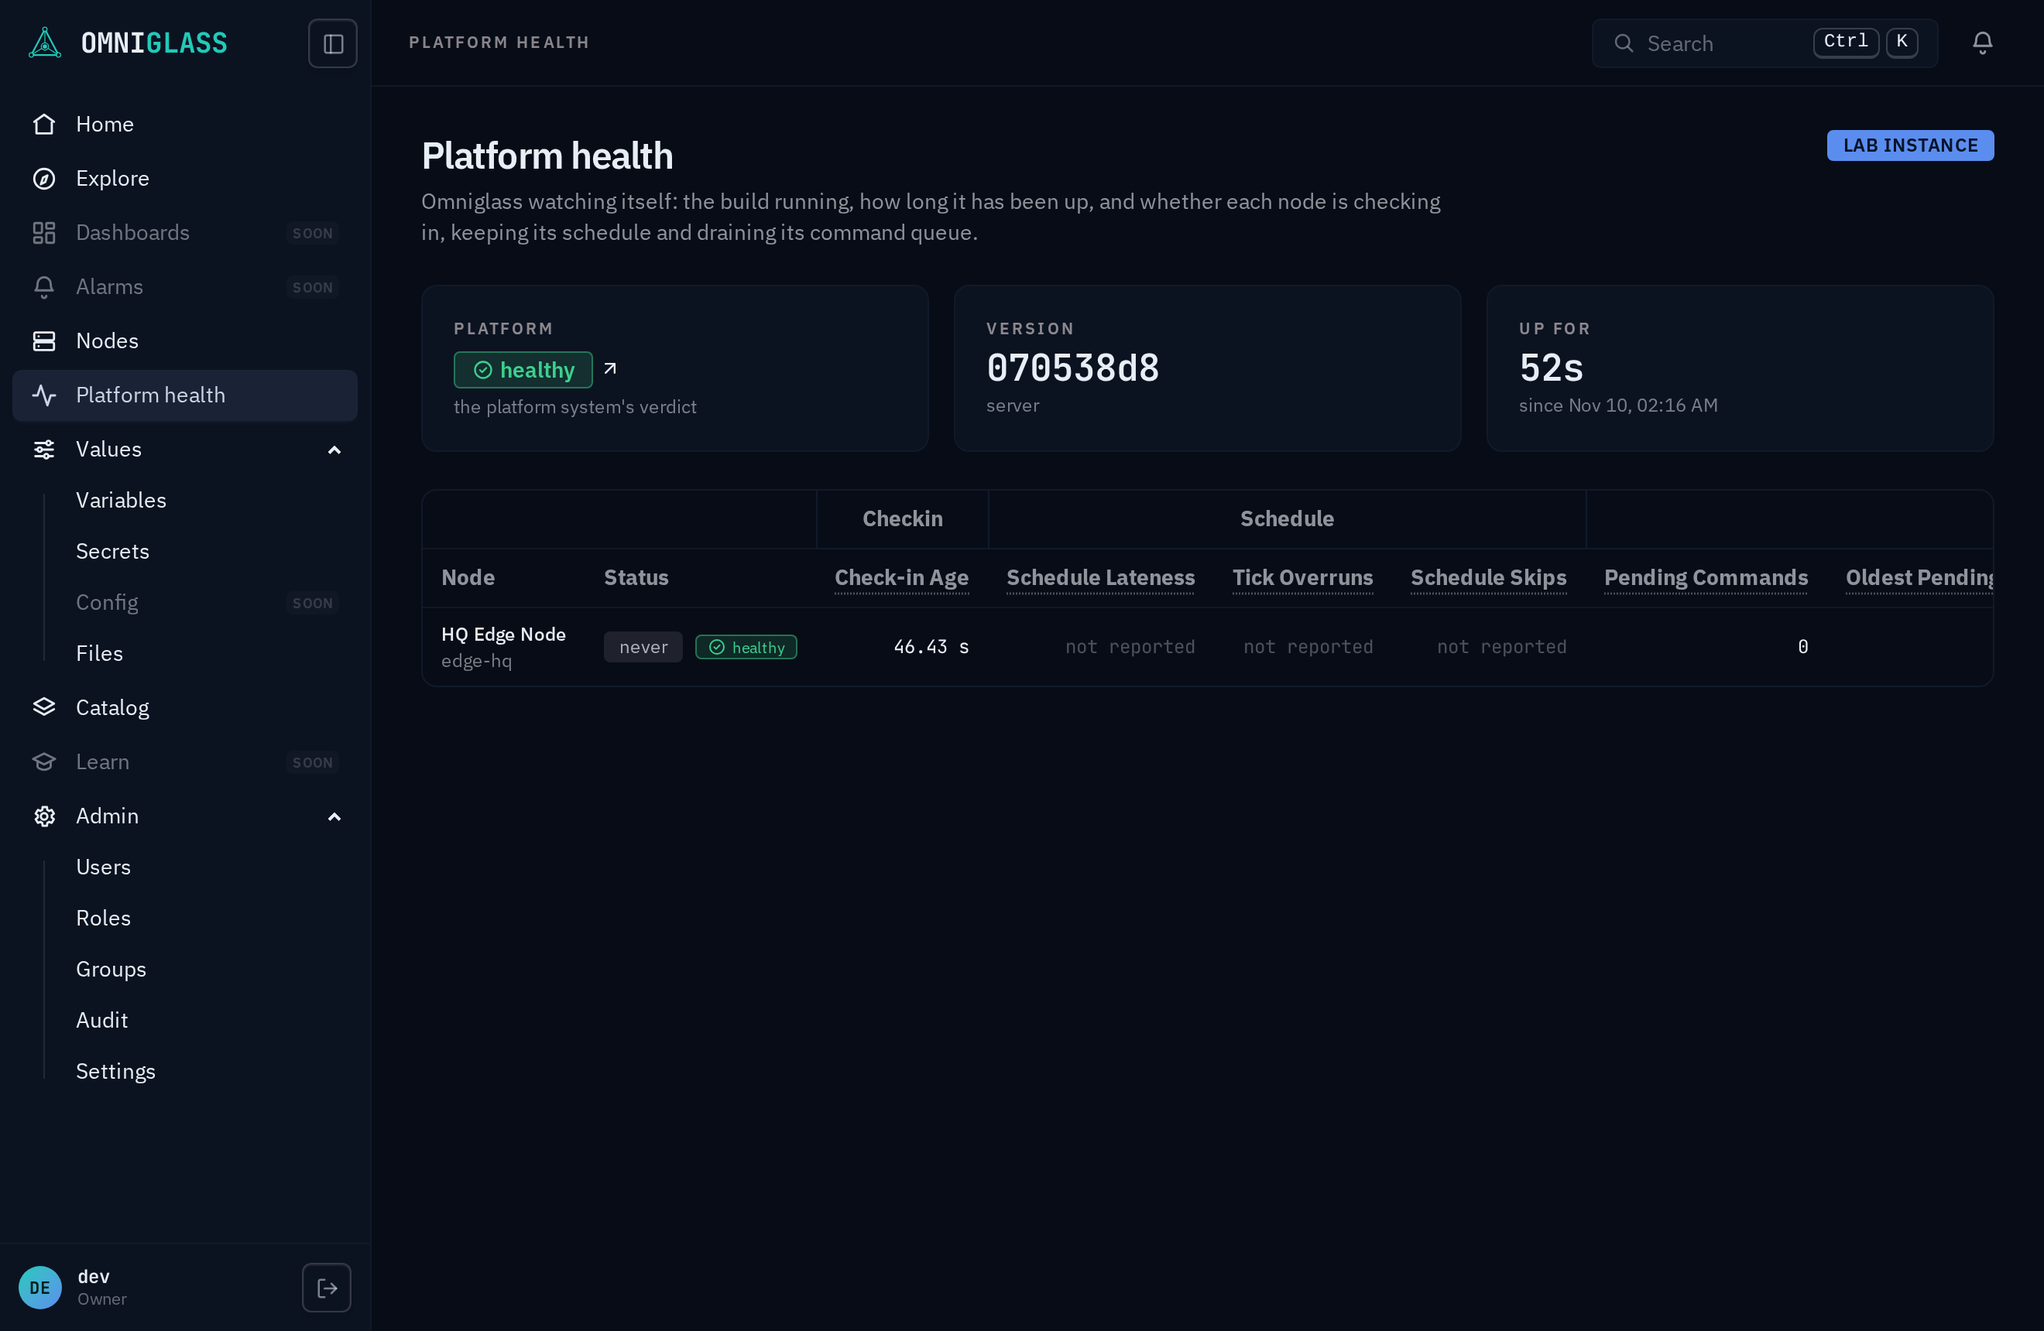
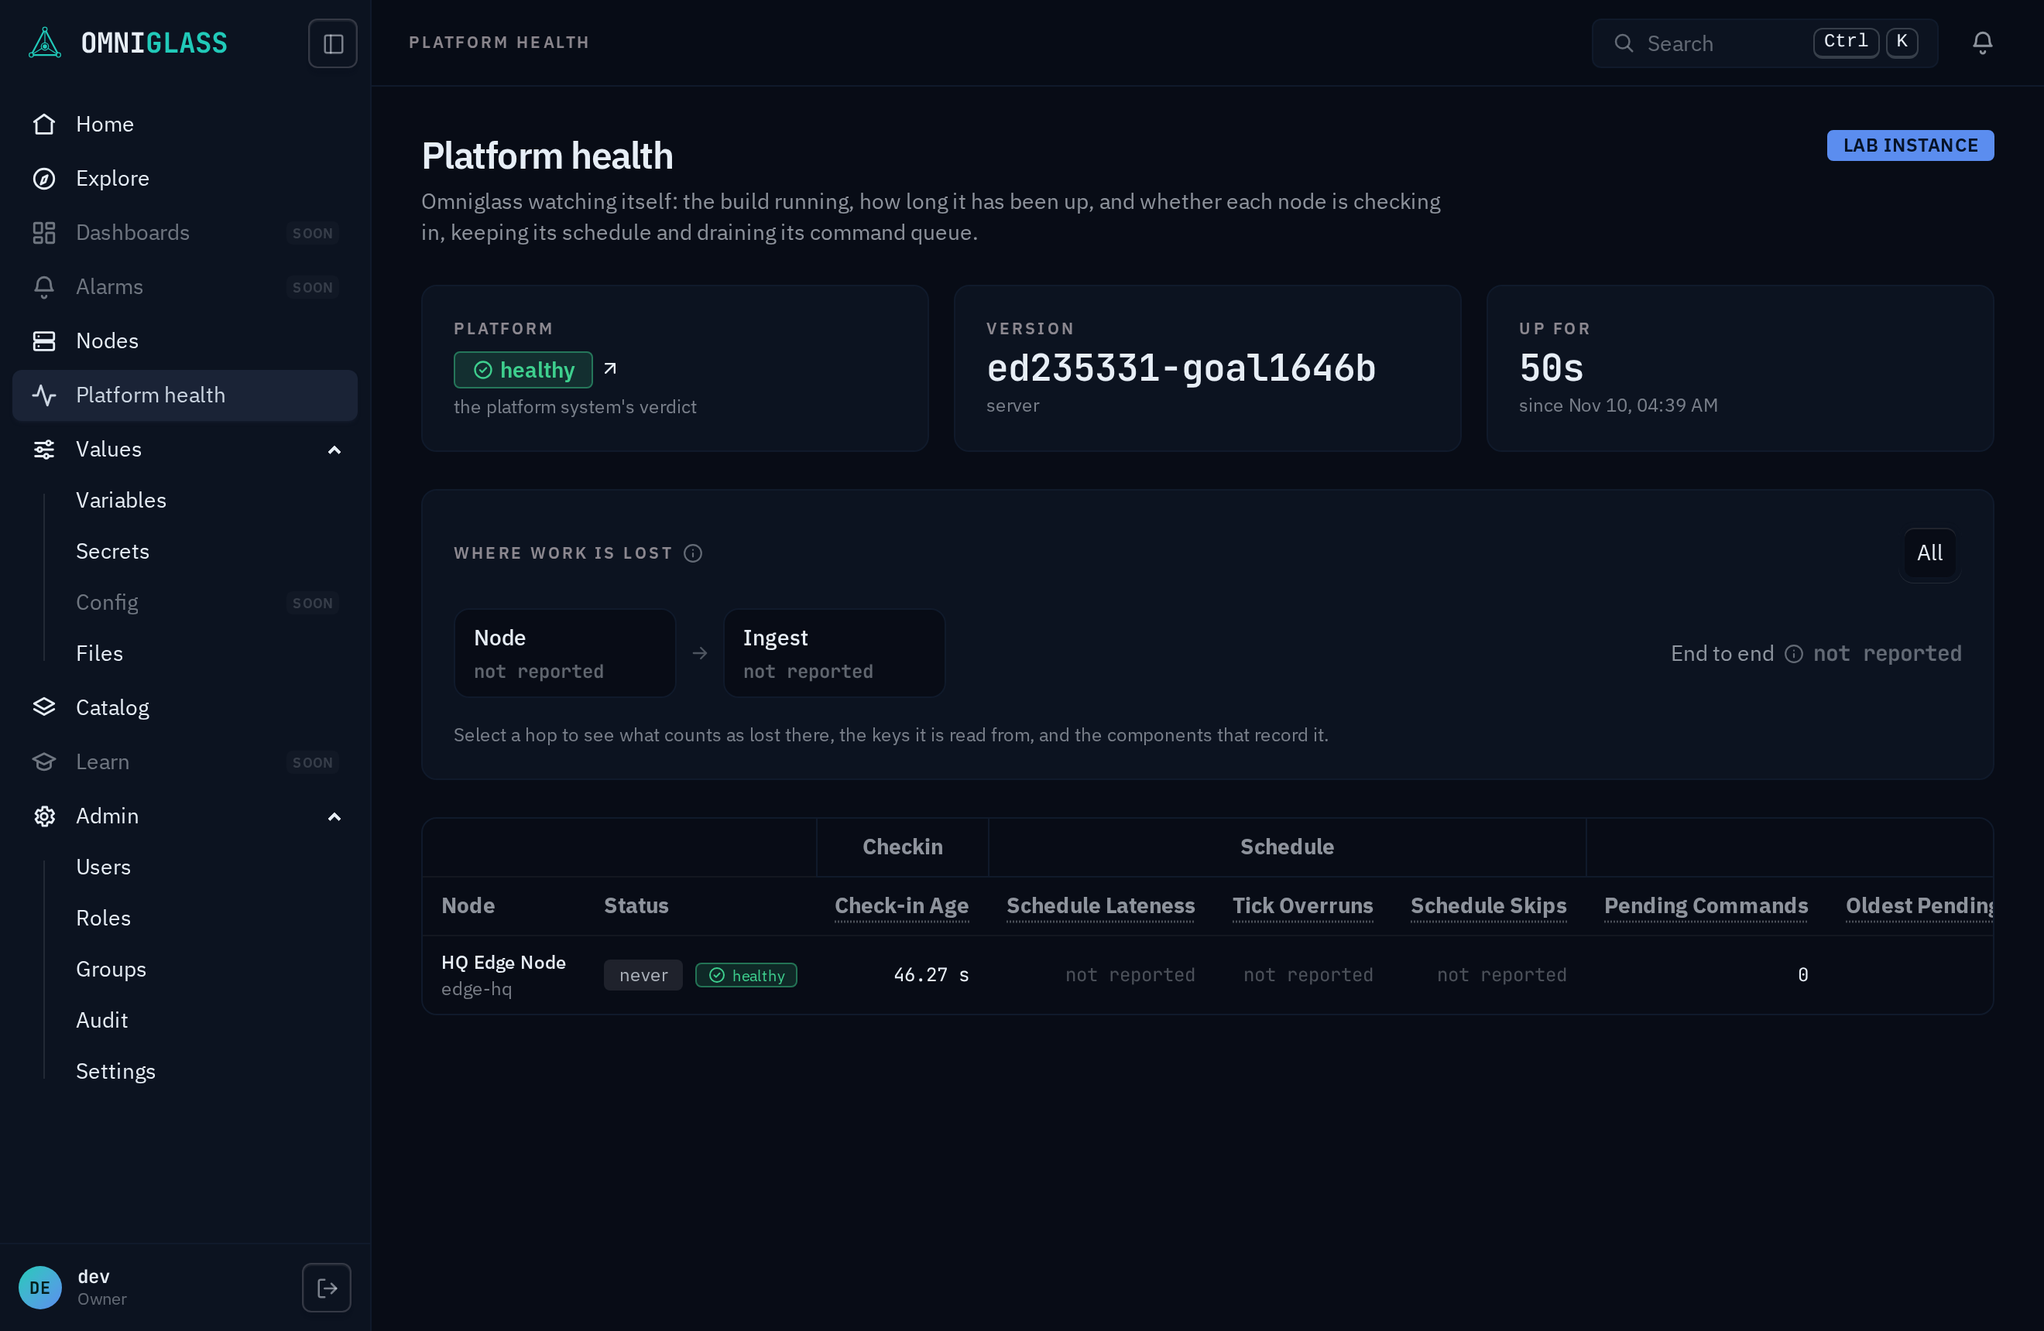
Document where work is lost on Platform health
The operator guide teaches the hops, the one loss rule over summed
counts, the end to end as composed survival, absent versus nothing in,
and the Node Loss column, with a shot of a hop's explainer and the
walkthrough. The architecture pages link the delivery keys to the
page, ADR-1646 records the divergences (a declared hop table, Loss as a
composed field, the schedule hop and the node's causes not drawn yet,
the walkthrough lab's 10s window), and the build log has its entry.

Fixes #1646

diff --git a/docs/src/content/docs/guides/operator/platform-health.md b/docs/src/content/docs/guides/operator/platform-health.md
@@ -14,8 +14,32 @@ screenshots:
       - "[data-testid=platform-version] >> xpath=ancestor::div[3]"
       - "[data-testid=platform-uptime] >> xpath=ancestor::div[3]"
       - "[data-figure=checkin-age]"
+      # Where work is lost reads the server's own delivery windows, which land
+      # once a report window (60s here) passes, so whether its kinds and figures
+      # show yet moves with when the capture reaches the page. Its tab row and
+      # its hop row are full width and one line tall whatever they hold.
+      - "[data-testid=pipeline] [role=group] >> xpath=.."
+      - "[data-testid=pipeline] ol >> xpath=.."
+  # The ingest hop's explainer: what it does, what counts as lost there and
+  # the keys it is read from are the hop's own text; its components column
+  # holds the server's figures once a window lands, so it is masked with the
+  # rows above.
+  - id: platform-health-hop
+    path: /web/platform
+    steps:
+      - action: click
+        selector: "[data-testid=pipeline-hop-ingest]"
+    alt: "Where work is lost on Platform health with the Ingest hop open: what the server's ingest takes in and hands on, what counts as lost there, the three delivery keys it is read from with their descriptions, and its components with their share."
+    mask:
+      - "[data-testid=platform-version] >> xpath=ancestor::div[3]"
+      - "[data-testid=platform-uptime] >> xpath=ancestor::div[3]"
+      - "[data-figure=checkin-age]"
+      - "[data-testid=pipeline] [role=group] >> xpath=.."
+      - "[data-testid=pipeline] ol >> xpath=.."
+      - "[data-testid=pipeline-hop-detail] > div:nth-child(2)"
 walkthroughs:
   - id: read-platform-health
+  - id: find-where-work-is-lost
 ---
 
 Omniglass monitors a fleet, and it is a fleet of its own: a server, a database and the nodes that
@@ -40,6 +64,50 @@ to open it; the tile and the sidebar entry are hidden without it.
   its boot wrote. A restart moves the start time forward.
 - On a lab instance the page says so beside its title.
 
+## Where work is lost
+
+Under the header, **Where work is lost** draws the path a collected item takes from the run that
+produced it to the store, one hop at a time, in the order an item crosses them:
+
+- **Node**: the node's spool, from a run's output to the stream. An item is out when the stream
+  acks its batch, and lost when the spool drops it at a cap, the bus refuses it, or it never
+  encodes.
+- **Ingest**: the server's ingest, from the stream to the store. An item is out when it is stored,
+  coalesced or had already landed (a replay is not a loss), and lost when it is refused, orphaned,
+  or its batch is terminated whole.
+
+Every hop is read from the same three keys, written by the component that runs the hop:
+`delivery-in-count`, `delivery-out-count` and `delivery-loss-ratio`, one series per item kind
+(metric, property, event, log) as the instance
+([how each hop counts](/architecture/messaging/#measuring-the-pipeline)). So one rule reads every
+hop: its **loss** is the share of what it took in that it did not hand on, `(in - out) / in`, over
+the last hour's summed counts across every component on the hop. It is never an average of the
+components' ratios: a node that lost 1 of 2 and one that lost none of 98 are a hop that lost 1 of
+100, 1%. **0% is healthy**, and a hop above 0 is tinted so it stands out.
+
+- **End to end** is the share lost anywhere on the path: one minus the product of each hop's
+  survival, `1 - (1 - a)(1 - b)`, so two hops losing 1% each lose 1.99% end to end, not 2%.
+- **All, Metric, Property, Event, Log** read the figures for every kind summed or one kind alone.
+  A kind shows only once a hop has carried it.
+- A hop that has written nothing yet reads **not reported**, never 0: a 0 would claim it measured
+  no loss. A hop with series but nothing in over the hour shows its zero counts and **nothing in**,
+  no ratio.
+
+Select a hop for its explainer: what it does, what counts as out and as lost there, the keys it is
+read from with their descriptions from the [metrics catalog](/guides/admin/metrics/), the class of
+platform component that records it, and each component's own share. Each component links to its
+platform component, where its delivery series live with their history.
+
+::screenshot{#platform-health-hop}
+
+A failed poll is not lost work. A device that does not answer is a fact the node collects and hands
+on (it lands on that device's component, as its poll failures), so the node hop still reads 0 while
+a broken device fails every poll. A hop's loss is work the platform itself dropped.
+
+Two hops are not drawn yet: the schedule (whether each run the worklist asks for is run, #1693)
+and the node's causes of loss by kind of failure (#1692). They appear when their figures are
+written; until then the path starts at the node's spool.
+
 ## The node table
 
 One row per node. **Status** is the same liveness pill the [Nodes](/guides/operator/collection/)
@@ -53,10 +121,10 @@ The columns are the platform keys, grouped:
 - **Schedule**: how late its collection ticks run, and how many overran or were skipped.
 - **Commands**: how many commands wait for it, the oldest one's age, and how many are stuck or
   expired.
-
-The node's delivery (the items of each kind its spool took in, handed on and lost, as a loss ratio
-where 0 is healthy) lands on its platform component every window (#1659); its column group on this
-page is #1646's.
+- **Loss**: **Node Loss** is the node's own share of [where work is lost](#where-work-is-lost): the
+  end to end over the last hour of the hops its own component records (the node hop today), every
+  kind summed. 0% is healthy; a node whose hops took nothing in reads **not reported**. Its series
+  are on the node's platform component, one per kind.
 
 Hover a column's header, or tab to it, for what the key measures; the text is the key's description from the
 [metrics catalog](/guides/admin/metrics/), not prose written into the page. A figure the node has
@@ -82,17 +150,26 @@ Home tile reads the same.
 The platform components belong to no place, so only a fleet-wide (all-scope) read reaches them.
 If your component read is scoped to part of the fleet, the page still lists every node with its
 pill, and one line says the platform figures need a fleet-wide read: the figures are left out, not
-shown as zero. Without a fleet-wide system read the Platform verdict reads `-`.
+shown as zero. Where work is lost is left out with them, and the Loss column reads not reported.
+Without a fleet-wide system read the Platform verdict reads `-`.
 
 ## From the CLI
 
 The page is one read of the platform view, so `omniglass view platform list` returns the same
 answer: the system verdict, each server's build and start time, the key groups, and each node's
-verdict with its current figures. A key a node has not reported is absent from its `figures`,
-never zero, so the command reads not-reported the same way the page does.
+verdict with its current figures, its `loss`, and the `pipeline` with each hop's figures per kind
+and per component. A key a node has not reported is absent from its `figures`, and a hop or a node
+with nothing to compose has no `loss`, never zero, so the command reads not-reported the same way
+the page does.
 
 ## Walkthrough
 
 From Home, open the tile, read the header, and open a node's row onto its platform component.
 
 ::walkthrough{#read-platform-health}
+
+Read where work is lost at 0, open a hop's explainer, break a simulated panel so every poll of it
+fails, watch the failures land on the panel while the node hop stays at 0, and follow the node's
+row in the node hop to its delivery series.
+
+::walkthrough{#find-where-work-is-lost}

diff --git a/docs/src/content/decisions/adr-1646-where-work-is-lost-is-a-composed-read-of-the-delivery-keys-hop-by-hop.md b/docs/src/content/decisions/adr-1646-where-work-is-lost-is-a-composed-read-of-the-delivery-keys-hop-by-hop.md
@@ -1,0 +1,40 @@
+---
+title: "Where work is lost is a composed read of the delivery keys, hop by hop"
+date: 2026-11-10
+status: "Accepted"
+summary: "Accepted: Platform health draws the pipeline as the hops a declared table in storage names (node, then ingest), each read from the three delivery keys on the platform components of its class, its loss (in - out) / in over the summed counts and the end to end 1 - prod(1 - loss). A node's Loss is a composed view field over the hops its own component records, not a key group. The schedule hop (#1693) and the node's causes (#1692) are not drawn until their figures are written. The walkthrough lab's seed sets the report window to 10s."
+refs: [1646, 1659, 1641, 1644, 1623, 1692, 1693]
+---
+
+- **Date:** 2026-11-10 | **Status:** Accepted | **Pages:** [Platform health](/guides/operator/platform-health/#where-work-is-lost), [messaging](/architecture/messaging/#measuring-the-pipeline), [api](/architecture/api/)
+- **Decision:** (#1646, under #1623.)
+  1. **The hops are a declared table, read from one key set.** `storage.PlatformPipelineHops`
+     names each hop in pipeline order with its label, what counts as out and lost there, the class of
+     platform component that records it (node or server) and the instance form that selects its
+     series. The read selects `delivery-in-count`, `delivery-out-count` and `delivery-loss-ratio`
+     on every platform component in one statement, and a hop's rows are its class's series at its
+     instance form. A new hop is a table row and the keys its component writes, not a new read.
+  2. **One loss rule, composed from counts.** A hop's loss is `(in - out) / in` over its
+     components' summed counts (the newest window and the last hour), never an average or sum of
+     their ratios; the end to end per kind is `1 - prod(1 - loss)` over the hops that kind crossed
+     (`delivery.EndToEnd`). Nothing in is no ratio, and a kind with no series at a hop is no row:
+     neither reads 0.
+  3. **A node's Loss is a composed field, not a key group.** The issue placed the node's delivery
+     as a column group of keys. The page shows one figure per node instead, the end to end over the
+     last hour of the hops its own component records, every kind summed, and the view says which
+     hops in `loss_hops`, so the page names them without assuming. The per-kind series stay on the
+     node's platform component, one click away.
+  4. **The node hop is #1659's spool figures.** It is drawn from the keys #1659 writes at the
+     spool, before the node's causes of loss by failure (#1692) exist, so it reads in, out and lost,
+     not why.
+  5. **Hops with no figures are not drawn.** The schedule hop (whether each run the worklist asks
+     for is run, #1693) writes no delivery keys yet, so the path starts at the node's spool; it is
+     not drawn as a hop reading 0, which would claim a measurement that was not made.
+  6. **The walkthrough lab reports every 10 s.** A lab started for a recording (`walkthrough`
+     cadence) with its node seeds `collection.report_seconds` to 10, the setting's floor, through the
+     new hidden `lab seed --report-seconds`, so the first delivery and poll figures land well inside
+     a minute's recording. A learner's lab and a lab with no node (the docs shots) keep the
+     platform's 60 s.
+- **Consequences:** the [lab topology](/guides/lab/) table gains the report window column. The
+  server ingest hop reads a small nonzero loss on a fresh lab while the node hop reads 0 (#1641),
+  which this page now makes visible rather than fixes.

diff --git a/docs/src/content/build-log/2026-11-10-platform-health-shows-where-work-is-lost.md b/docs/src/content/build-log/2026-11-10-platform-health-shows-where-work-is-lost.md
@@ -1,0 +1,19 @@
+---
+title: "Platform health shows where work is lost, hop by hop (#1646)"
+date: 2026-11-10
+refs: [1646, 1659, 1641, 1644, 1692, 1693]
+---
+
+Platform health draws the path a collected item takes from its run to the store as hops, the node's
+spool then the server's ingest, each read from the three delivery keys #1659 writes on the platform
+components that run it. `storage.PlatformPipelineHops` declares the hops and one read composes them:
+each hop's in, out and loss per kind over the newest window and the last hour, each component's
+share, and the end to end, with nothing in reading no ratio rather than 0. The platform view serves
+it as `pipeline`, with each node's composed `loss` and the hops it covers in `loss_hops`. The console
+draws it as `PipelineFlow`: the hops with a kind filter, a tint above 0, and an explainer per hop
+naming its keys and linking each component to its series; the node table gains a Node Loss column.
+The walkthrough `find-where-work-is-lost` breaks a simulated panel and shows its failed polls landing
+on the panel while the node hop stays at 0. The walkthrough lab now seeds a 10 s report window so its
+figures land inside the recording. The schedule hop (#1693) and the node's causes (#1692) are not
+drawn yet. The decisions are
+[ADR-1646](/architecture/decisions/#adr-1646-where-work-is-lost-is-a-composed-read-of-the-delivery-keys-hop-by-hop).

diff --git a/docs/src/content/docs/architecture/nodes.md b/docs/src/content/docs/architecture/nodes.md
@@ -600,7 +600,9 @@ stream acked) and `delivery-loss-ratio`, `(in - out) / in`, 0 when nothing came 
 when the stream acks its batch (in and out), or when the spool drops it at a cap, the bus refuses it,
 or it never encodes (in only); a batch held for a retry has not settled and counts in the window it
 does. These three replace the old spool-drop and publish-failure counts, so every hop's loss reads
-as the same ratio ([messaging](/architecture/messaging/#accounting-every-item-the-loss-ratio)). The schedule figures read
+as the same ratio ([messaging](/architecture/messaging/#accounting-every-item-the-loss-ratio)), and
+[Platform health](/guides/operator/platform-health/#where-work-is-lost) draws this hop beside the
+server's ingest, with each node's own share as its Loss (#1646). The schedule figures read
 the dispatcher's window ([below](#scheduling-concurrency-and-self-observability)): a poll keeping its
 interval reads a zero `schedule-gap-excess`, and a late pass or a skipped slot reads the distance it
 lost. A node that goes silent sends nothing, so the server writes the one figure that keeps

diff --git a/docs/src/content/docs/architecture/ui.md b/docs/src/content/docs/architecture/ui.md
@@ -25,7 +25,9 @@ place from `allowed_parent_types`, never from a type's name (ADR-0137). **Platfo
 projection (`GET /views/platform`) with the running build, its uptime, the platform system's
 verdict and a row per node of its platform figures, each row opening onto the node's platform
 component. Its columns are the groups the view returns, headed with each key's catalog
-description, so the page holds no key list. The views model, the renderer library, and composable
+description, so the page holds no key list. Above the table it draws **where work is lost**
+(#1646): the hops the view returns, each read from the same three delivery keys with one loss rule,
+and a hop's explainer naming its keys and its components (`components/PipelineFlow.tsx`). The views model, the renderer library, and composable
 dashboards remain the intended **read side** for the analytical surfaces (alarms, sample
 history, the cascade view, fleet dashboards), not built yet.
 Realized shell: the [design system](/contributing/design-system/); operating it: the

diff --git a/docs/src/content/docs/architecture/api.md b/docs/src/content/docs/architecture/api.md
@@ -1171,7 +1171,10 @@ earns its own tier only when composing the entity reads in the browser would be 
   many nodes there are. Its rows are `/nodes`', so a node read short of all-scope is a **403**, as
   `/nodes` answers, never an empty table. The figures, the verdicts and the servers need an
   all-scope `component:read` and the system an all-scope `system:read`; short of either they are
-  omitted, never zeroed, and `figures_read` says which.
+  omitted, never zeroed, and `figures_read` says which. With the figures come `pipeline`, each
+  hop's delivery in, out and loss per kind and per component (newest window and last hour) and the
+  end to end, and each node's `loss`, the end to end of the hops `loss_hops` names (#1646); a hop,
+  kind or node with nothing in has no loss, never 0.
 
 Two properties are worth stating because they are easy to lose:
 

diff --git a/docs/src/content/docs/architecture/messaging.md b/docs/src/content/docs/architecture/messaging.md
@@ -327,6 +327,10 @@ failure count has its attempts beside it, so each loss reads as a ratio where 0 
   silent`, and not again until a heartbeat from that node lands, so a database outage under a fleet
   heartbeating every few seconds is one line a node, not one a beat. Healthy is 0 failures.
 
+[Platform health](/guides/operator/platform-health/#where-work-is-lost) reads the delivery keys hop
+by hop, the node's spool then this ingest, each hop's loss over its components' summed counts and the
+end to end as one minus the product of each hop's survival (#1646).
+
 A count reads its window's sum, then one zero the window after its last activity, then nothing; a
 gauge, mean or max reads nothing in a window with no observation, so a missing figure is no activity,
 never a zero that did not happen. What the figures say about scaling is
